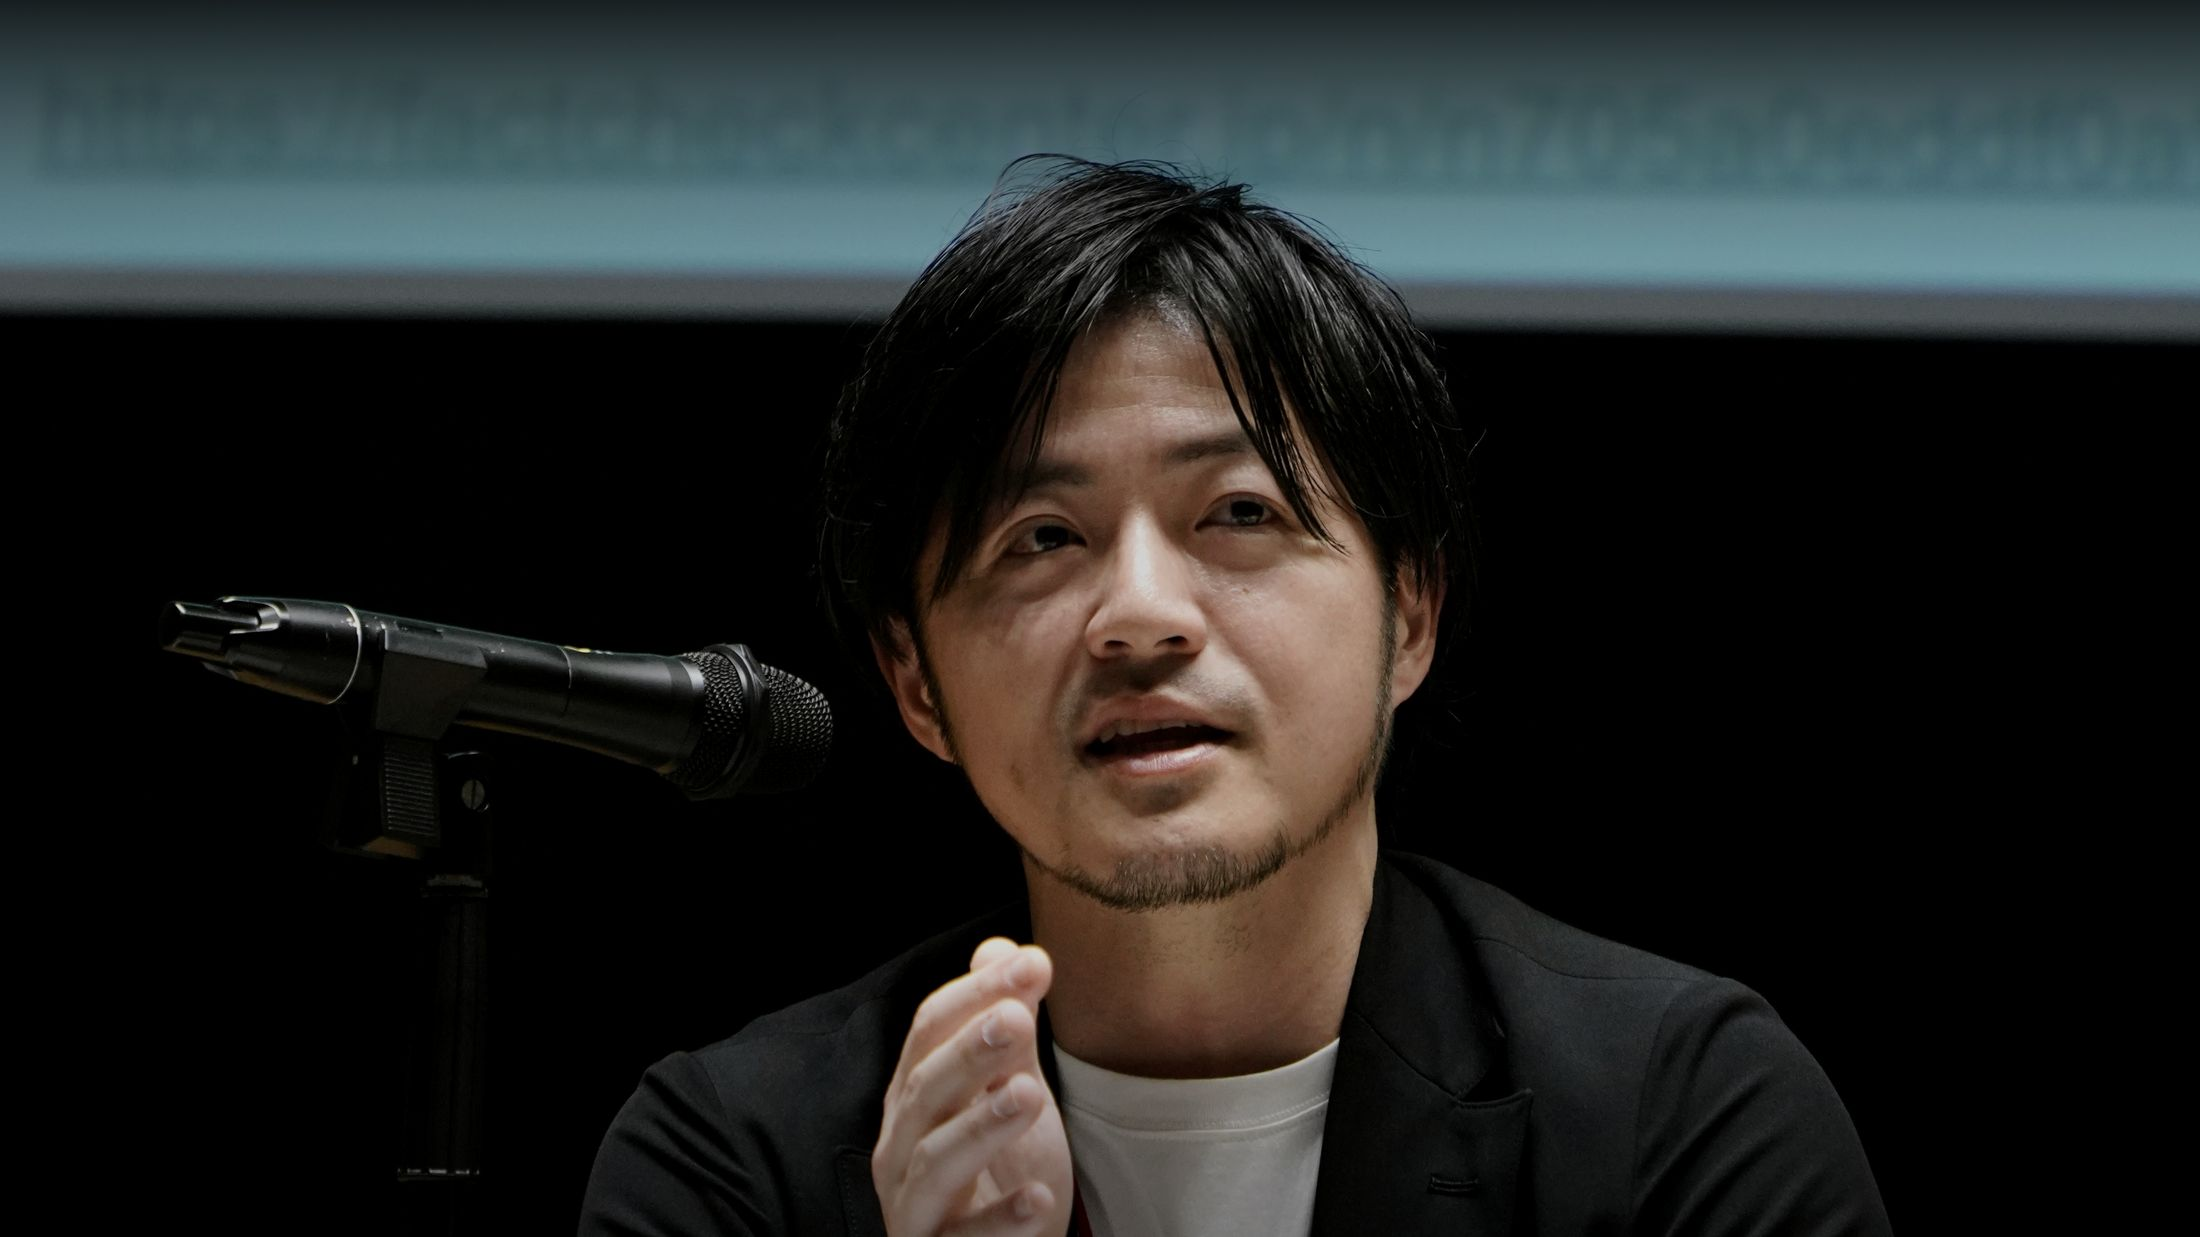
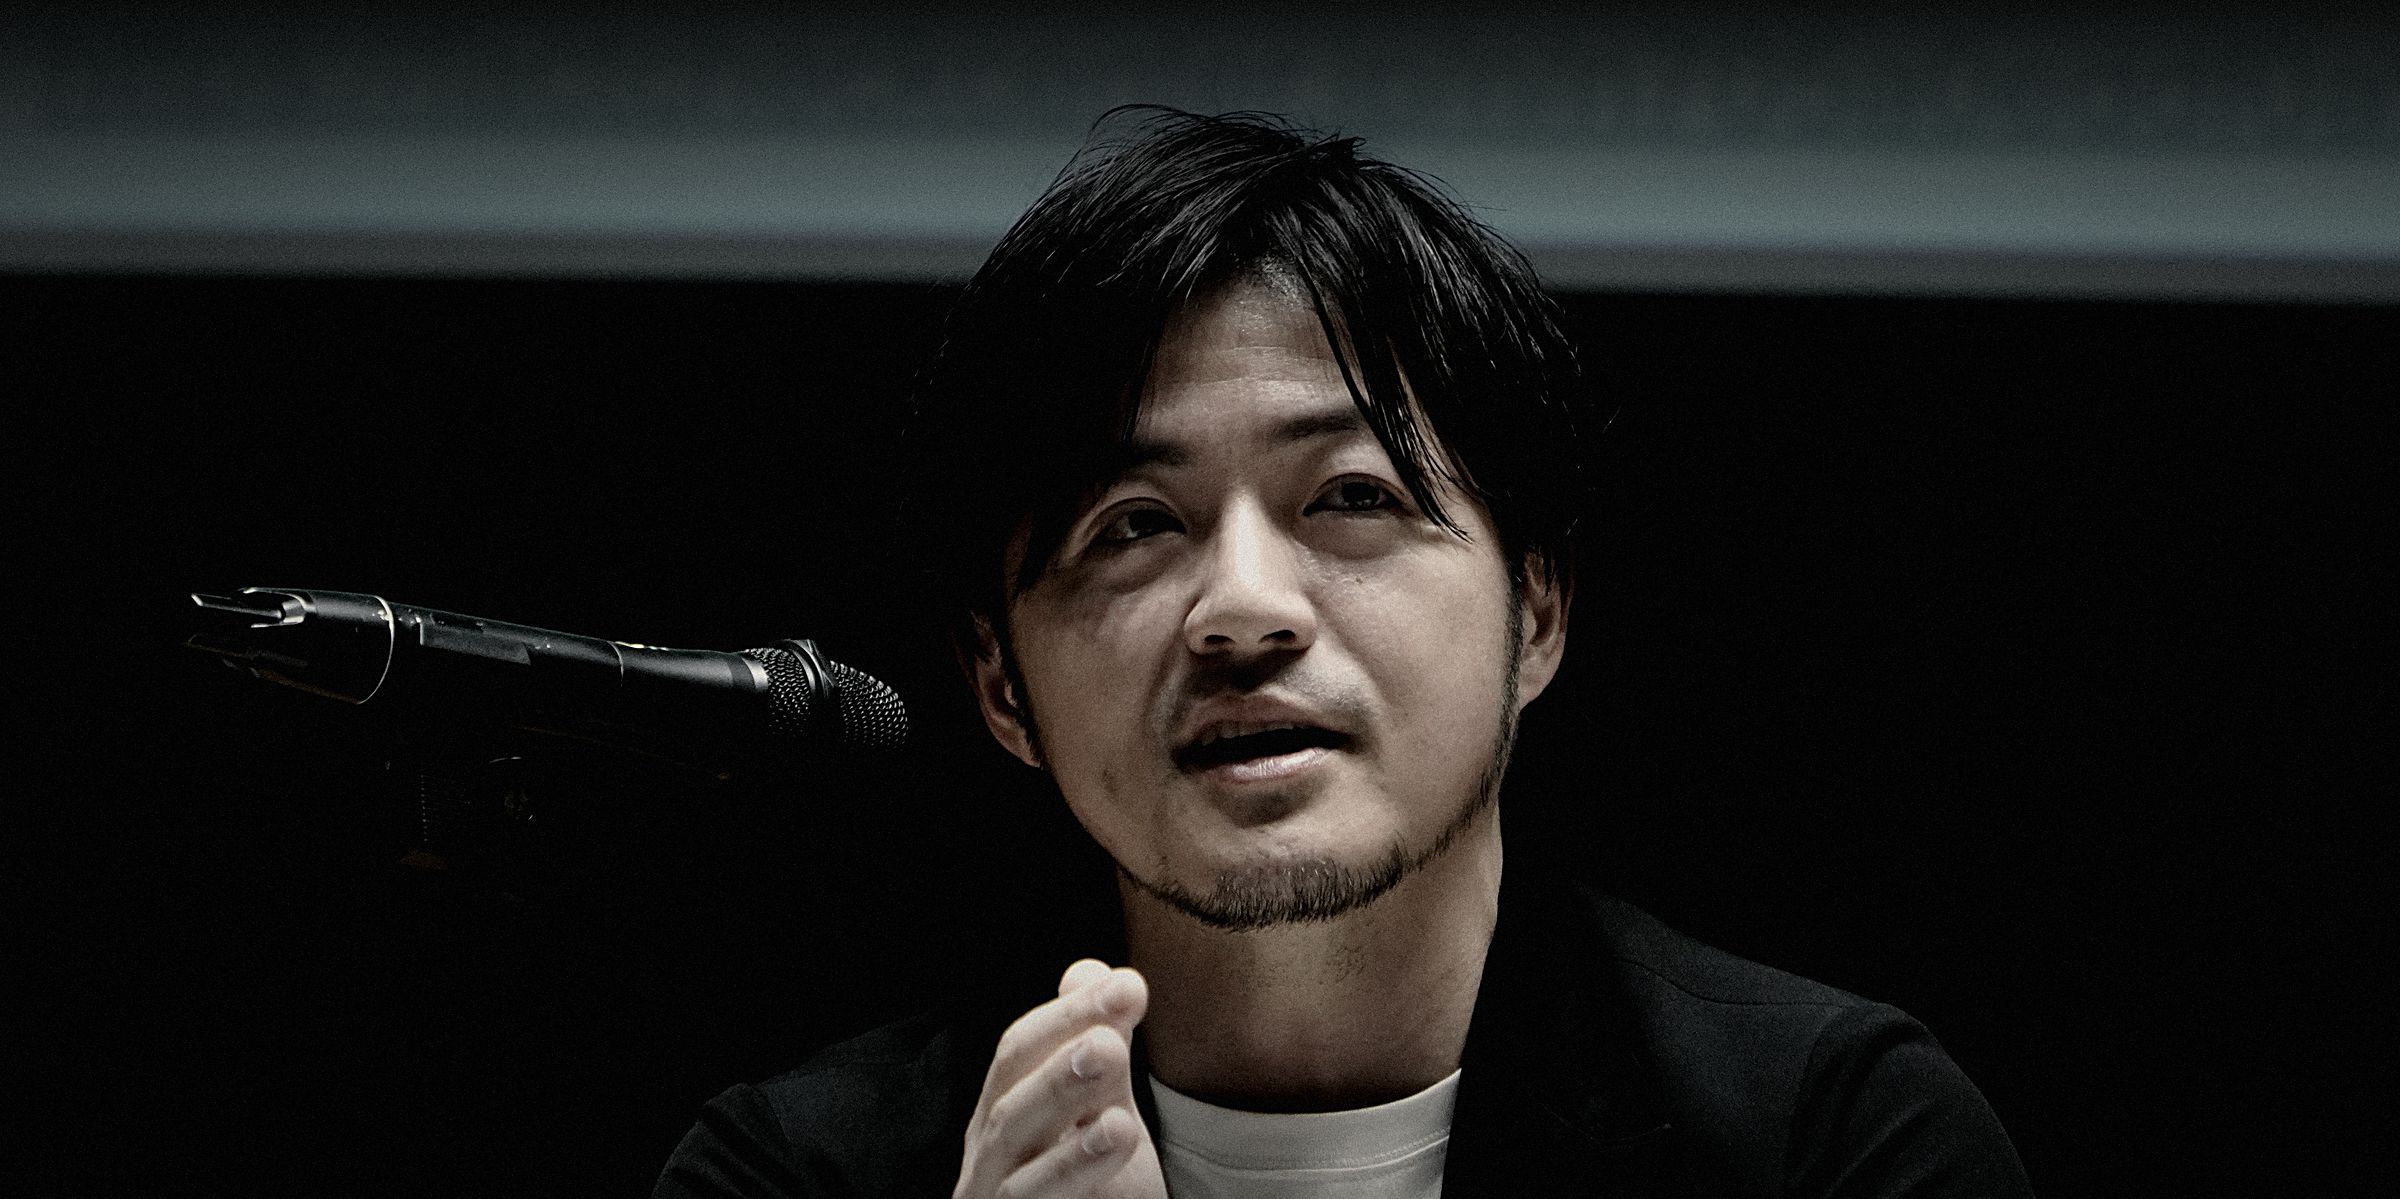
Add files via upload

diff --git a/assets/style.css b/assets/style.css
@@ -38,21 +38,43 @@ a:hover { color: var(--accent); }
 .site-nav .nav-contact { border: 1.5px solid var(--ink); border-radius: 999px; padding: 6px 16px; color: var(--ink); }
 .site-nav .nav-contact:hover { background: var(--ink); color: #fff; }
 
-/* ---- hero ---- */
-.hero { padding: 96px 0 0; }
-.hero-eyebrow { font-family: var(--en); font-weight: 600; font-size: 12.5px; letter-spacing: .3em; color: var(--accent); margin-bottom: 26px; }
+/* ---- hero (フルブリード写真 + 左下ネーム) ---- */
+.hero { position: relative; width: 100%; overflow: hidden; }
+.hero-img {
+  display: block; width: 100%;
+  height: min(88vh, 760px); object-fit: cover; object-position: center 30%;
+}
+.hero::after {
+  content: ""; position: absolute; inset: 0;
+  background: linear-gradient(15deg, rgba(5,6,8,.66) 0%, rgba(5,6,8,.22) 34%, rgba(5,6,8,0) 58%);
+  pointer-events: none;
+}
+.hero-overlay {
+  position: absolute; left: clamp(20px, 5vw, 64px); bottom: clamp(24px, 5.5vh, 56px);
+  z-index: 2; color: #fff;
+}
+.hero-eyebrow {
+  font-family: var(--en); font-weight: 600; font-size: clamp(10px, 1.1vw, 13px);
+  letter-spacing: .34em; color: #fff; opacity: .85; margin-bottom: 10px;
+}
+.hero-name {
+  font-family: var(--en); font-weight: 800; color: #fff;
+  font-size: clamp(38px, 7.2vw, 84px); line-height: 1.05; letter-spacing: -0.01em;
+}
+.hero-kanji { font-size: clamp(13px, 1.5vw, 17px); letter-spacing: .5em; color: #fff; opacity: .8; margin-top: 14px; }
+
+/* ---- catch ---- */
+.catch-sec { padding-top: clamp(64px, 10vw, 110px); }
 .hero-catch {
   font-family: var(--mincho); font-weight: 800;
-  font-size: clamp(34px, 6.2vw, 62px); line-height: 1.55; letter-spacing: .04em;
-  margin-bottom: 34px; max-width: 20em;
+  font-size: clamp(28px, 5.6vw, 56px); line-height: 1.6; letter-spacing: .04em;
+  margin-bottom: 30px; max-width: 21em;
 }
 .hero-catch em { font-style: normal; position: relative; }
 .hero-catch em::after {
   content: ""; position: absolute; left: 0; right: 0; bottom: .08em;
   height: .28em; background: rgba(199,58,46,.18); z-index: -1;
 }
-.hero-name { font-size: 19px; font-weight: 700; margin-bottom: 6px; }
-.hero-name span { font-family: var(--en); font-weight: 600; font-size: 13px; color: var(--ink-faint); margin-left: 10px; letter-spacing: .06em; }
 .hero-bio { color: var(--ink-soft); font-size: 14.5px; max-width: 560px; margin-bottom: 34px; }
 .hero-actions { display: flex; align-items: center; gap: 28px; flex-wrap: wrap; }
 .btn {
@@ -81,6 +103,18 @@ a:hover { color: var(--accent); }
 
 /* ---- bands ---- */
 .soft-band { background: var(--bg-soft); }
+
+/* ---- JFC link ---- */
+.jfc-link {
+  display: flex; align-items: center; justify-content: space-between; gap: 16px;
+  margin-bottom: 26px; padding: 18px 22px;
+  border: 1.5px solid var(--accent); border-radius: 10px;
+  font-weight: 700; font-size: 15px; color: var(--ink);
+  background: rgba(199,58,46,.04);
+}
+.jfc-link span { color: var(--accent); font-weight: 800; }
+.jfc-link:hover { background: var(--accent); color: #fff; }
+.jfc-link:hover span { color: #fff; }
 
 /* ---- article index list ---- */
 .idx-list { border-top: 1.5px solid var(--ink); }
@@ -157,10 +191,30 @@ a:hover { color: var(--accent); }
 .article-footer a, .src-note a { color: var(--accent); }
 .src-note { margin-bottom: 70px; }
 
-@media (max-width: 860px) {
+/* ================= responsive ================= */
+@media (max-width: 960px) {
   .about-grid { grid-template-columns: 1fr; gap: 40px; }
+}
+@media (max-width: 860px) {
   .section-pad { padding-top: 68px; padding-bottom: 68px; }
-  .hero { padding-top: 64px; }
-  .hero-photo-wrap { margin-top: 48px; }
-  .header-inner { justify-content: center; }
+  .hero-img { height: min(70vh, 560px); }
+  .header-inner { justify-content: center; text-align: center; }
+  .site-nav { justify-content: center; gap: 16px; }
+  .media-cols { gap: 28px; }
+}
+@media (max-width: 560px) {
+  body { font-size: 15px; }
+  .container { padding: 0 20px; }
+  .hero-img { height: 62vh; min-height: 380px; }
+  .hero-overlay { left: 20px; right: 20px; bottom: 22px; }
+  .site-nav a { font-size: 12.5px; }
+  .site-nav .nav-contact { padding: 4px 12px; }
+  .idx-item { flex-direction: column; gap: 6px; padding: 20px 2px; }
+  .idx-item h3 { font-size: 15.5px; }
+  .footer-inner { flex-direction: column; }
+  .hero-actions { gap: 18px; }
+  .btn { padding: 12px 24px; font-size: 13.5px; }
+  .mail-line { font-size: 18px; }
+  .article-body h2 { font-size: 19px; }
+  .sec-jp { letter-spacing: .06em; }
 }

diff --git a/index.html b/index.html
@@ -26,21 +26,20 @@
 
 <main>
   <section class="hero">
-    <div class="container">
+    <img class="hero-img" src="assets/hero-wide.jpg" alt="登壇し、聴衆に語りかける古田大輔">
+    <div class="hero-overlay">
       <p class="hero-eyebrow">JOURNALIST / FACT-CHECKER</p>
-      <h1 class="hero-catch">分断の時代にこそ、<br>誰もが共有できる<em>事実</em>を。</h1>
-      <p class="hero-name">古田大輔 <span>Daisuke Furuta</span></p>
-      <p class="hero-bio">朝日新聞記者、BuzzFeed Japan創刊編集長、Google News Lab Teaching Fellowを経て、日本ファクトチェックセンター（JFC）編集長。デジタル報道とメディアリテラシーを軸に取材・発信を続けています。</p>
-      <div class="hero-actions">
-        <a class="btn" href="notes/index.html">記事を読む</a>
-        <a class="link-arrow" href="#about">プロフィール ↓</a>
-      </div>
+      <h1 class="hero-name">Daisuke Furuta</h1>
+      <p class="hero-kanji">古田大輔</p>
     </div>
-    <div class="container hero-photo-wrap">
-      <figure class="hero-photo">
-        <img src="assets/hero-wide.jpg" alt="登壇し、聴衆に語りかける古田大輔">
-        <figcaption>TOKYO — 登壇にて</figcaption>
-      </figure>
+  </section>
+
+  <section class="container catch-sec">
+    <h2 class="hero-catch">分断の時代にこそ<br>共有されるべき<em>事実</em>を</h2>
+    <p class="hero-bio">伝統メディアからネット、そして、AIの時代に。情報環境の変遷を追いかけています。</p>
+    <div class="hero-actions">
+      <a class="btn" href="notes/index.html">記事を読む</a>
+      <a class="link-arrow" href="#about">プロフィール ↓</a>
     </div>
   </section>
 
@@ -48,9 +47,12 @@
     <div class="sec-head"><span class="sec-en">ABOUT</span><h2 class="sec-jp">プロフィール</h2></div>
     <div class="about-grid">
       <div class="about-text">
-        <p>1977年福岡生まれ。2002年に朝日新聞入社。社会部、国際報道部、アジア総局（バンコク）、シンガポール支局長などを経て、デジタル編集部でデジタルコンテンツの企画・編集を担当。</p>
-        <p>2015年、BuzzFeed Japan創刊編集長に就任し、3年で日本有数の規模のネットメディアに。2019年に独立。2020年から2年間、Google News Lab Teaching Fellowとして2万人超のジャーナリスト・学生・研究者にデジタル報道トレーニングを実施。</p>
-        <p>2022年9月、日本ファクトチェックセンター（JFC）設立とともに編集長に就任。調査報道、ファクトチェック、メディアリテラシー、ダイバーシティをテーマに取材・発信を続ける。デジタル・ジャーナリスト育成機構（D-JEDI）事務局長、ファクトチェック・イニシアティブ理事、早稲田大・近畿大非常勤講師。</p>
+        <p>1977年、福岡生まれ。早稲田大政経学部卒。</p>
+        <p>2002年、朝日新聞入社。社会部、国際報道部、アジア総局、シンガポール支局長などを経て、デジタル版編集を担当。</p>
+        <p>2015年、BuzzFeed Japan創刊編集長に就任。ニュースからエンターテイメントまで、ソーシャルメディアを活用して急成長。</p>
+        <p>2019年、独立。2020年から2年間、Google News Labティーチングフェローとして延べ2万人超の記者や学生らにデジタル報道セミナーを実施。</p>
+        <p>2022年、日本ファクトチェックセンター（JFC）設立とともに編集長に就任。ファクトチェックの実践とメディアリテラシーの普及に取り組む。</p>
+        <p>その他の主な役職として、デジタル・ジャーナリスト育成機構事務局長。早稲田大、慶應大で非常勤講師。</p>
         <a class="link-arrow" href="about.html">詳しいプロフィール →</a>
       </div>
       <div class="timeline">
@@ -66,6 +68,7 @@
   <section class="soft-band" id="articles">
     <div class="container section-pad">
       <div class="sec-head"><span class="sec-en">ARTICLES</span><h2 class="sec-jp">記事</h2></div>
+      <a class="jfc-link" href="https://www.factcheckcenter.jp/author/daisuke/" target="_blank" rel="noopener">日本ファクトチェックセンターでの執筆記事はこちら <span>→</span></a>
       <div class="idx-list">
 <a class="idx-item" href="notes/zone-of-interest.html">
   <time>2024.06.03</time>

diff --git a/notes/index.html b/notes/index.html
@@ -32,6 +32,7 @@
     </div>
   </section>
   <section class="container narrow section-pad">
+    <a class="jfc-link" href="https://www.factcheckcenter.jp/author/daisuke/" target="_blank" rel="noopener">日本ファクトチェックセンターでの執筆記事はこちら <span>→</span></a>
     <div class="idx-list">
 <a class="idx-item" href="zone-of-interest.html">
   <time>2024.06.03</time>